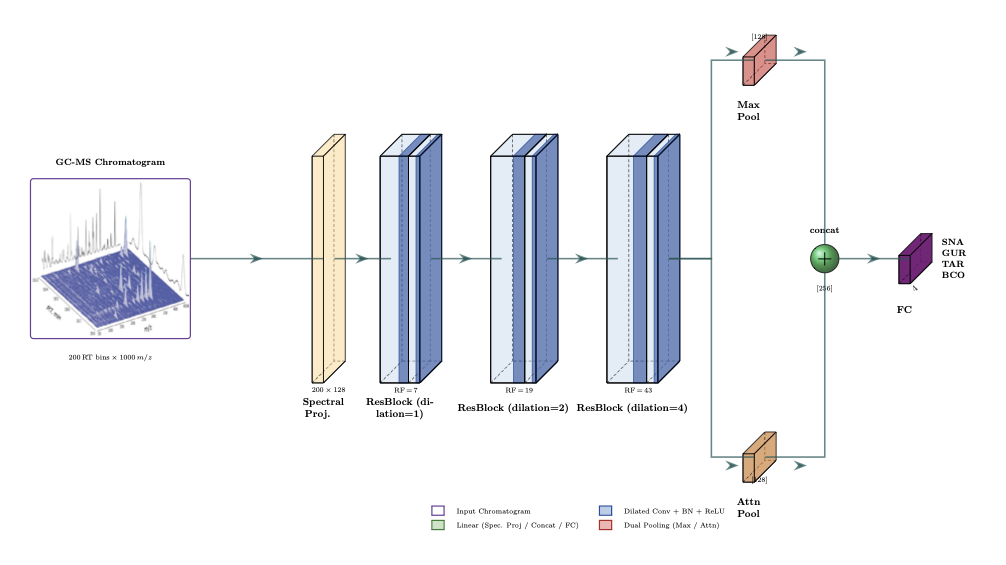
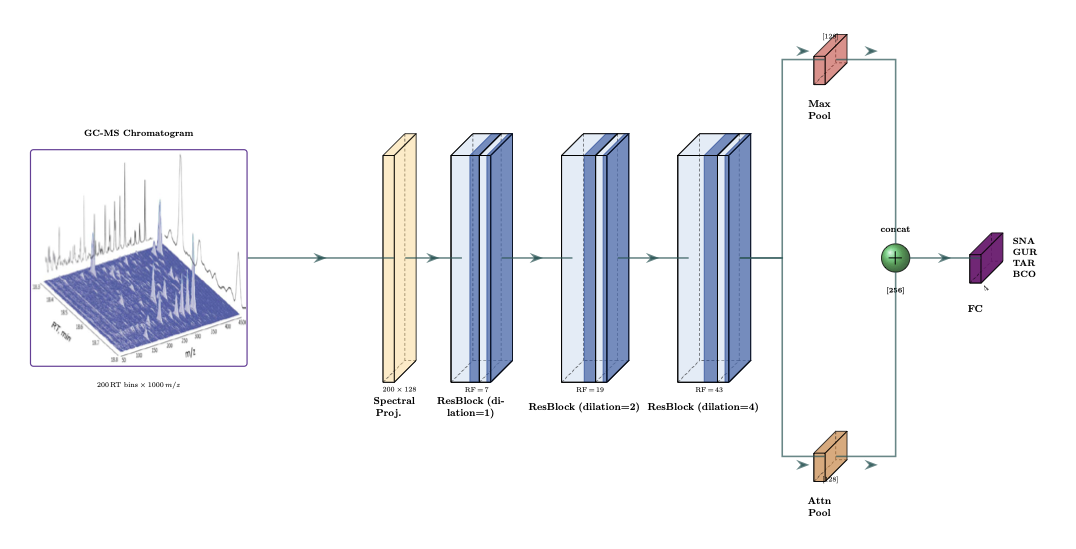
Add synethic dataset picture

diff --git a/figs/plot_architecture.py b/figs/plot_architecture.py
@@ -68,35 +68,14 @@ arch = [
     # =========================================================================
     raw(r"""
 \node[inner sep=2pt, draw=InputEdge, very thick,
-      fill=white, rounded corners=3pt] (gcms) at (-5.5,0,0)
-    {\includegraphics[width=5.5cm,height=5.5cm]{""" + GCMS_IMG + r"""}};
+      fill=white, rounded corners=3pt] (gcms) at (-7.0,0,0)
+    {\includegraphics[width=7.5cm,height=7.5cm]{""" + GCMS_IMG + r"""}};
 """),
     raw(r"""
 \node[font=\small\bfseries, above=3mm of gcms.north, align=center]
     {GC-MS Chromatogram};
 \node[font=\scriptsize, below=4mm of gcms.south]
     {$200\,\text{RT bins} \times 1000\,m/z$};
-"""),
-
-    # Legend integrated further down to avoid overlap
-    raw(r"""
-\node[anchor=north] at (11,-8.5,0) {
-    {%
-    \setlength{\fboxsep}{1.5pt}%
-    \setlength{\fboxrule}{1.2pt}%
-    \renewcommand{\arraystretch}{1.2}%
-    \begin{tabular}{ll@{\hspace{20pt}}ll}
-        \fcolorbox{InputEdge}{white}{\phantom{\rule{8pt}{5pt}}} &
-            {\scriptsize Input Chromatogram} &
-        \fcolorbox{ResBlockEdge}{ResBlockFill}{\phantom{\rule{8pt}{5pt}}} &
-            {\scriptsize Dilated Conv + BN + ReLU} \\
-        \fcolorbox{LinearEdge}{LinearFill}{\phantom{\rule{8pt}{5pt}}} &
-            {\scriptsize Linear (Spec. Proj / Concat / FC)} &
-        \fcolorbox{PoolEdge}{PoolFill}{\phantom{\rule{8pt}{5pt}}} &
-            {\scriptsize Dual Pooling (Max / Attn)}
-    \end{tabular}
-    }%
-};
 """),
 
     # =========================================================================
@@ -196,7 +175,7 @@ arch = [
     to_Sum("cat", offset="(5.5,0,0)", to="(res3-east)", radius=2.5, opacity=0.85),
     raw(r"""
 \node[font=\small\bfseries, above=3mm] at (cat-north) {concat};
-\node[font=\scriptsize,     below=3mm] at (cat-south)  {$[256]$};
+\node[font=\scriptsize,     below=4mm] at (cat-south)  {\textbf{[256]}};
 """),
 
     # Pool branches merge into concat

diff --git a/figs/architecture_cnn.tex b/figs/architecture_cnn.tex
@@ -35,31 +35,13 @@
 \tikzstyle{copyconnection}=[ultra thick,every node/.style={sloped,allow upside down},draw={rgb:blue,4;red,1;green,1;black,3},opacity=0.7]
 
 \node[inner sep=2pt, draw=InputEdge, very thick,
-      fill=white, rounded corners=3pt] (gcms) at (-5.5,0,0)
-    {\includegraphics[width=5.5cm,height=5.5cm]{/Users/woodj/Desktop/mass-spec/gc-ms.png}};
+      fill=white, rounded corners=3pt] (gcms) at (-7.0,0,0)
+    {\includegraphics[width=7.5cm,height=7.5cm]{/Users/woodj/Desktop/mass-spec/gc-ms.png}};
 
 \node[font=\small\bfseries, above=3mm of gcms.north, align=center]
     {GC-MS Chromatogram};
 \node[font=\scriptsize, below=4mm of gcms.south]
     {$200\,\text{RT bins} \times 1000\,m/z$};
-
-\node[anchor=north] at (11,-8.5,0) {
-    {%
-    \setlength{\fboxsep}{1.5pt}%
-    \setlength{\fboxrule}{1.2pt}%
-    \renewcommand{\arraystretch}{1.2}%
-    \begin{tabular}{ll@{\hspace{20pt}}ll}
-        \fcolorbox{InputEdge}{white}{\phantom{\rule{8pt}{5pt}}} &
-            {\scriptsize Input Chromatogram} &
-        \fcolorbox{ResBlockEdge}{ResBlockFill}{\phantom{\rule{8pt}{5pt}}} &
-            {\scriptsize Dilated Conv + BN + ReLU} \\
-        \fcolorbox{LinearEdge}{LinearFill}{\phantom{\rule{8pt}{5pt}}} &
-            {\scriptsize Linear (Spec. Proj / Concat / FC)} &
-        \fcolorbox{PoolEdge}{PoolFill}{\phantom{\rule{8pt}{5pt}}} &
-            {\scriptsize Dual Pooling (Max / Attn)}
-    \end{tabular}
-    }%
-};
 
 \pic[shift={(2,0,0)}] at (0,0,0) 
     {Box={
@@ -169,7 +151,7 @@
     };
 
 \node[font=\small\bfseries, above=3mm] at (cat-north) {concat};
-\node[font=\scriptsize,     below=3mm] at (cat-south)  {$[256]$};
+\node[font=\scriptsize,     below=4mm] at (cat-south)  {\textbf{[256]}};
 
 \draw [connection]
     (maxpool-east) -| node[above,sloped,pos=0.3]{\midarrow} (cat-north);
